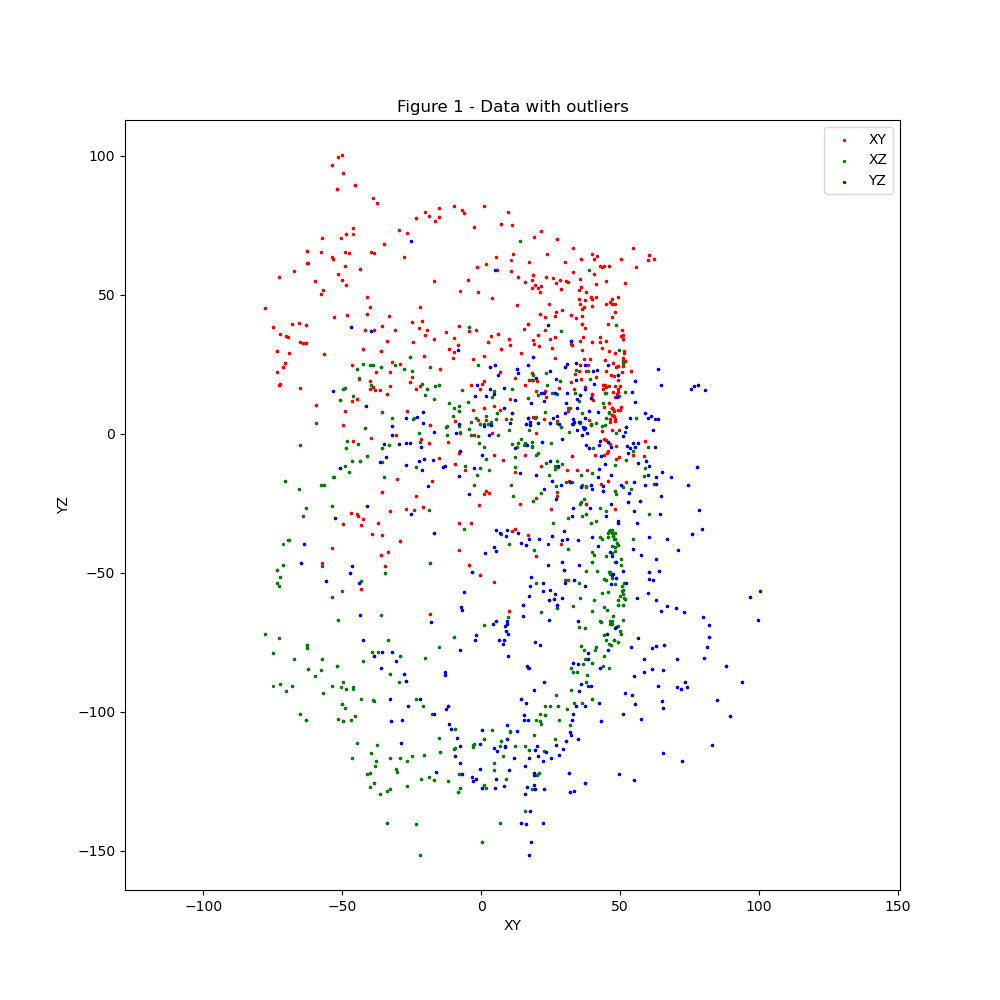
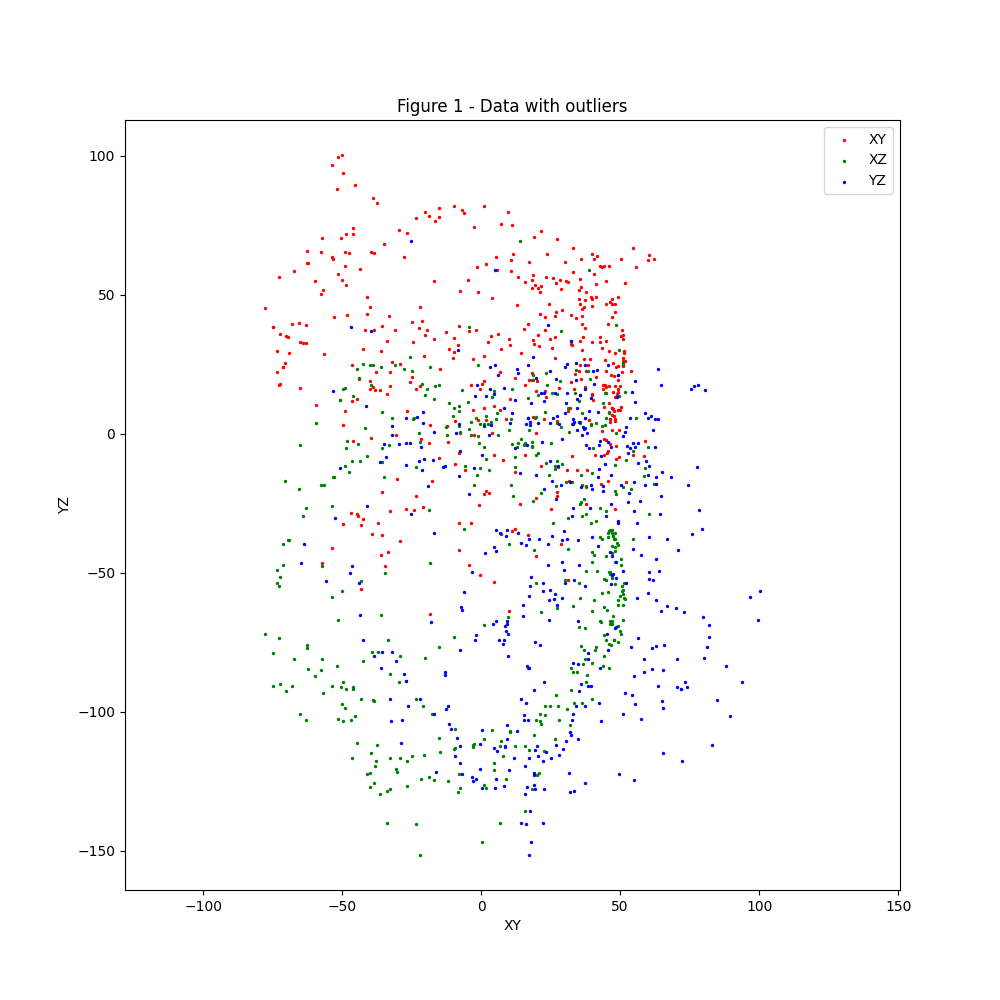
fixed HI and SI #2

diff --git a/examples/mag-calibrate/plot-calibrate.py b/examples/mag-calibrate/plot-calibrate.py
@@ -10,13 +10,17 @@ from io import StringIO
 from scipy import linalg
 
 # Be sure to remove your outliers and check the data to see if it looks correct. ideally there should not any dots far from the "circles".
-my_top_percentile = 0.025 # Percentage of outliers to remove from the top of the data, increase adjust until you data looks cleaned.
-my_bottom_percentile = 0.025 # Percentage of outliers to remove from the bottom of the data
+# Fraction of samples to drop as outliers: the ones whose distance from the first-pass center is furthest from
+# the typical radius. Increase until the plots look clean.
+outlier_fraction = 0.05
 save_plots_to_file = True   # Set to True to save the plots to a file
 plot_sampling_percentage = 1 # Adjust if need to plot faster, 1.0 = 100% of the data, 0.5 = 50% of the data, 0.1 = 10% of the data, etc.
-figure_size = (10, 10) # Adjust the size of all the plots, (width, height)  
-file_name = "mag_out_D_free4.csv" 
-do_soft_iron = False
+figure_size = (10, 10) # Adjust the size of all the plots, (width, height)
+file_name = "mag_out_D_free4.csv"
+do_soft_iron = True  # False = hard iron only (per-axis min/max midpoint), soft iron = identity
+
+LSB_PER_GAUSS = 6842.0  # LIS3MDL at +-4 gauss; the CSV is already in uT (raw / 6842 * 100)
+UT_PER_GAUSS = 100.0
 
 def apply_calibration(df, b, A_1):
     """
@@ -54,30 +58,23 @@ def calibrate(df):
     """
     # Convert dataframe to numpy array
     data = df[['x', 'y', 'z']].values
-    
-    print(f"Calibrating with {len(data)} data points...")
-    # magnetic field strength, in microTesla
-    F = 1000.0
-    print(f"Magnetic field strength: {F} microTesla")
-    b = np.zeros([3, 1])  # Hard iron bias
-    A_1 = np.eye(3)       # soft iron bias
-    
-    # Ellipsoid fit
+
+    # Ellipsoid fit: all points satisfy  m^T M m + 2 n^T m + d = 0
     s = data.T
     M, n, d = _ellipsoid_fit(s)
-    
-    # Calculate calibration parameters
+
+    # Hard iron = ellipsoid center
     M_1 = linalg.inv(M)
     b = -np.dot(M_1, n)
-    A_1 = np.real(F / np.sqrt(np.dot(n.T, np.dot(M_1, n)) - d) * linalg.sqrtm(M))
-    
-    print("\nCalibration completed!")
-    print("Hard iron bias (microTesla):")
-    print(f"  X: {b[0,0]:.6f}")
-    print(f"  Y: {b[1,0]:.6f}")
-    print(f"  Z: {b[2,0]:.6f}")
-    print("\nSoft iron transformation matrix:")
-    print(A_1)
+
+    # Rewritten around the center:  (m - b)^T M (m - b) = K,  K = n^T M^-1 n - d
+    K = (np.dot(n.T, np.dot(M_1, n)) - d).item()
+    # A_unit maps the ellipsoid onto the unit sphere: |A_unit (m - b)| = 1
+    A_unit = np.real(linalg.sqrtm(M)) / np.sqrt(K)
+
+    # Rescale so det(A_1) = 1: A_1 only reshapes the ellipsoid into a sphere and keeps its volume,
+    # so the output stays in the sensor's own units (uT here, gauss on the rocket).
+    A_1 = A_unit / np.cbrt(np.linalg.det(A_unit))
     return b, A_1
 
 def calibrate_magnetometer_offset(df):
@@ -92,25 +89,10 @@ def calibrate_magnetometer_offset(df):
     """
     # Convert dataframe to numpy array
     data = df[['x', 'y', 'z']].values
-    
-    print(f"Calibrating with {len(data)} data points...")
-    
+
     # Calculate hard iron bias as the mean of min and max values for each axis
     # This assumes the magnetometer was rotated through all orientations
-    b = np.zeros([3, 1])
-    
-    for i, axis in enumerate(['X', 'Y', 'Z']):
-        min_val = np.min(data[:, i])
-        max_val = np.max(data[:, i])
-        b[i, 0] = (max_val + min_val) / 2.0
-        print(f"{axis}-axis: min={min_val:.2f}, max={max_val:.2f}, offset={b[i,0]:.2f}")
-    
-    print("\nCalibration completed!")
-    print("Hard iron bias (offset in microTesla):")
-    print(f"  X: {b[0,0]:.6f}")
-    print(f"  Y: {b[1,0]:.6f}")
-    print(f"  Z: {b[2,0]:.6f}")
-    
+    b = ((data.max(axis=0) + data.min(axis=0)) / 2.0).reshape(3, 1)
     return b
 
 def _ellipsoid_fit(s):
@@ -156,8 +138,9 @@ def _ellipsoid_fit(s):
     E = np.dot(linalg.inv(C),
                 S_11 - np.dot(S_12, np.dot(linalg.inv(S_22), S_21)))
 
+    # E is not symmetric, so eig may hand back complex dtype; the eigenvector we want is real
     E_w, E_v = np.linalg.eig(E)
-    v_1 = E_v[:, np.argmax(E_w)]
+    v_1 = np.real(E_v[:, np.argmax(np.real(E_w))])
     if v_1[0] < 0: v_1 = -v_1
 
     # v_2 (eq. 13, solution)
@@ -188,15 +171,39 @@ def load_clean_csv(file_path):
     
     # Create a DataFrame from the filtered lines
     df = pd.read_csv(StringIO(''.join(filtered_lines)))
+
+    # The firmware logs faster than the 10 Hz sensor updates, so the same sample often appears
+    # twice in a row. Drop the repeats so slow parts of the tumble don't get extra weight.
+    df = df[(df != df.shift()).any(axis=1)].reset_index(drop=True)
     return df
 
-def filter_outlier(df, top_percentile=my_top_percentile, bottom_percentile=my_bottom_percentile):
-    # Filter out the top 5% and bottom 5% values in each column to remove noise
-    for column in ['x', 'y', 'z']:
-        lower_bound = df[column].quantile(0 + bottom_percentile/2)
-        upper_bound = df[column].quantile(1 - top_percentile/2)
-        df = df[(df[column] >= lower_bound) & (df[column] <= upper_bound)]
-    return df
+def corrected_radius(df, b, A_1):
+    """Distance of each corrected sample from the origin."""
+    data = df[['x', 'y', 'z']].values
+    return np.linalg.norm((data - b.T) @ A_1.T, axis=1)
+
+def filter_outlier(df, b, A_1, fraction=outlier_fraction):
+    # Drop the samples whose corrected radius is furthest from the typical radius.
+    # (Trimming each axis separately would remove the extreme points that pin the ellipsoid down.)
+    r = corrected_radius(df, b, A_1)
+    deviation = np.abs(r - np.median(r))
+    return df[deviation <= np.quantile(deviation, 1 - fraction)]
+
+def report_quality(df, b, A_1):
+    """Print how well the corrected samples sit on a sphere and how well they cover it."""
+    data = df[['x', 'y', 'z']].values
+    c = (data - b.T) @ A_1.T
+    r = np.linalg.norm(c, axis=1)
+    R = r.mean()
+    spread = r.std() / R * 100
+    print(f"\nCorrected radius: {R:.1f} uT (Earth's field is ~25-65 uT; check NOAA for your location)")
+    print(f"Radius spread:    {spread:.1f} %  {'OK' if spread < 5 else 'HIGH - redo the tumble away from metal, or raise outlier_fraction'}")
+    for i, axis in enumerate('XYZ'):
+        lo, hi = c[:, i].min() / R, c[:, i].max() / R
+        ok = lo < -0.8 and hi > 0.8
+        print(f"{axis} coverage:       {lo:+.2f} .. {hi:+.2f} of radius  {'OK' if ok else 'POOR - point this axis further up and down'}")
+    octants = np.bincount(((c > 0) * [1, 2, 4]).sum(axis=1), minlength=8)
+    print(f"Samples per octant: {octants.tolist()}  {'OK' if octants.min() >= 0.02 * len(c) else 'POOR - some directions barely visited'}")
 
 # Helper functions for plotting
 def clean_filename(filename):
@@ -227,41 +234,39 @@ def plot_data(df, title, xlabel, ylabel,save_img=False):
     plt.show(block=False)
 
 def print_rust_code(b, A_1):
-    """Print calibration parameters as rust code."""
-    print("\n" + "="*50)
-    print("Rust Code for calibration parameters:")
-    print("="*50)
-    print(f"let hard_iron_bias_x = {b[0,0]:.6f};")
-    print(f"let hard_iron_bias_y = {b[1,0]:.6f};")
-    print(f"let hard_iron_bias_z = {b[2,0]:.6f};")
-    print()
-    print(f"let soft_iron_bias_xx = {A_1[0,0]:.6f};")
-    print(f"let soft_iron_bias_xy = {A_1[0,1]:.6f};")
-    print(f"let soft_iron_bias_xz = {A_1[0,2]:.6f};")
-    print()
-    print(f"let soft_iron_bias_yx = {A_1[1,0]:.6f};")
-    print(f"let soft_iron_bias_yy = {A_1[1,1]:.6f};")
-    print(f"let soft_iron_bias_yz = {A_1[1,2]:.6f};")
-    print()
-    print(f"let soft_iron_bias_zx = {A_1[2,0]:.6f};")
-    print(f"let soft_iron_bias_zy = {A_1[2,1]:.6f};")
-    print(f"let soft_iron_bias_zz = {A_1[2,2]:.6f};")
-    print("="*50)
+    """Print calibration parameters as constants for examples/main/src/config.rs."""
+    b_gauss = b[:, 0] / UT_PER_GAUSS
+    row = lambda r: "[" + ", ".join(f"{v:.6f}" for v in r) + "]"
+    print("\n" + "="*70)
+    print("Paste into examples/main/src/config.rs:")
+    print("="*70)
+    print(f"// Magnetometer calibration from {file_name}. Apply as: m_cal = SI * (m_counts / {LSB_PER_GAUSS:.0f} - HI)")
+    print(f"pub const MAG_HARD_IRON_BIAS_GAUSS: [f32; 3] = {row(b_gauss)};")
+    print("pub const MAG_SOFT_IRON: [[f32; 3]; 3] = [ // unitless, row-major, det = 1")
+    for r in A_1:
+        print(f"    {row(r)},")
+    print("];")
+    print("="*70)
 # Main function
 def main():
     # Step 1: Read data from "data.csv"
     original_df = load_clean_csv(file_name) # helper function to load and clean the data, makes sure only lines with x,y,z values are present
-    
-    # Step 2: Filter out the outliers and print some information about the data
-    filtered_df = filter_outlier(original_df, 0.025, 0.025)
-    print(f"Total samples:  {len(original_df)}\t\toutliers filtered: {len(original_df) - len(filtered_df)}/{my_top_percentile + my_bottom_percentile}%")
-    
-    # Step 3: Apply correction and plot the data
+
+    # Step 2: Rough ellipsoid fit on everything, only used to find outliers, then drop them
+    b0, A0 = calibrate(original_df)
+    filtered_df = filter_outlier(original_df, b0, A0)
+    print(f"Samples: {len(original_df)}  outliers dropped: {len(original_df) - len(filtered_df)} ({outlier_fraction:.0%})")
+
+    # Step 3: Real fit on the cleaned data
     if do_soft_iron:
         b, A_1 = calibrate(filtered_df)
     else:
         b = calibrate_magnetometer_offset(filtered_df)
         A_1 = np.eye(3)
+
+    print(f"\nHard iron bias (uT): {np.round(b[:, 0], 3).tolist()}")
+    print(f"Soft iron matrix (unitless):\n{np.round(A_1, 4)}")
+    report_quality(filtered_df, b, A_1)
 
     filtered_corrected_df = apply_calibration(filtered_df, b, A_1)
     print_rust_code(b, A_1)

diff --git a/examples/mag-calibrate/src/main.rs b/examples/mag-calibrate/src/main.rs
@@ -60,7 +60,9 @@ async fn main_task(sirin: &'static mut Sirin) {
     let free_soft_iron_bias_zy = 0.239927;
     let free_soft_iron_bias_zz = 16.148427;
 
-    let calibrate = false;
+    // true = log raw readings (uT) for plot-calibrate.py. false logs readings with the old bias already
+    // subtracted, which would make the script report only the leftover offset.
+    let calibrate = true;
     loop {
         let (x_raw, y_raw, z_raw) = sirin.magnetometer.magnetic().await.unwrap();
         // divide by 6842 for Gauss, mult by 100 for micro Teslas (uT)

diff --git a/examples/main/src/main.rs b/examples/main/src/main.rs
@@ -22,6 +22,10 @@ use sirin::packet::MatchVoltage;
 use nalgebra as na;
 use na::{Matrix3, Matrix6, Vector3, UnitQuaternion, Rotation3, ComplexField};
 <<<<<<< Updated upstream
+<<<<<<< Updated upstream
+=======
+use extended_kalman::{Ekf, ekf_settings};
+>>>>>>> Stashed changes
 =======
 use extended_kalman::{Ekf, ekf_settings};
 >>>>>>> Stashed changes
